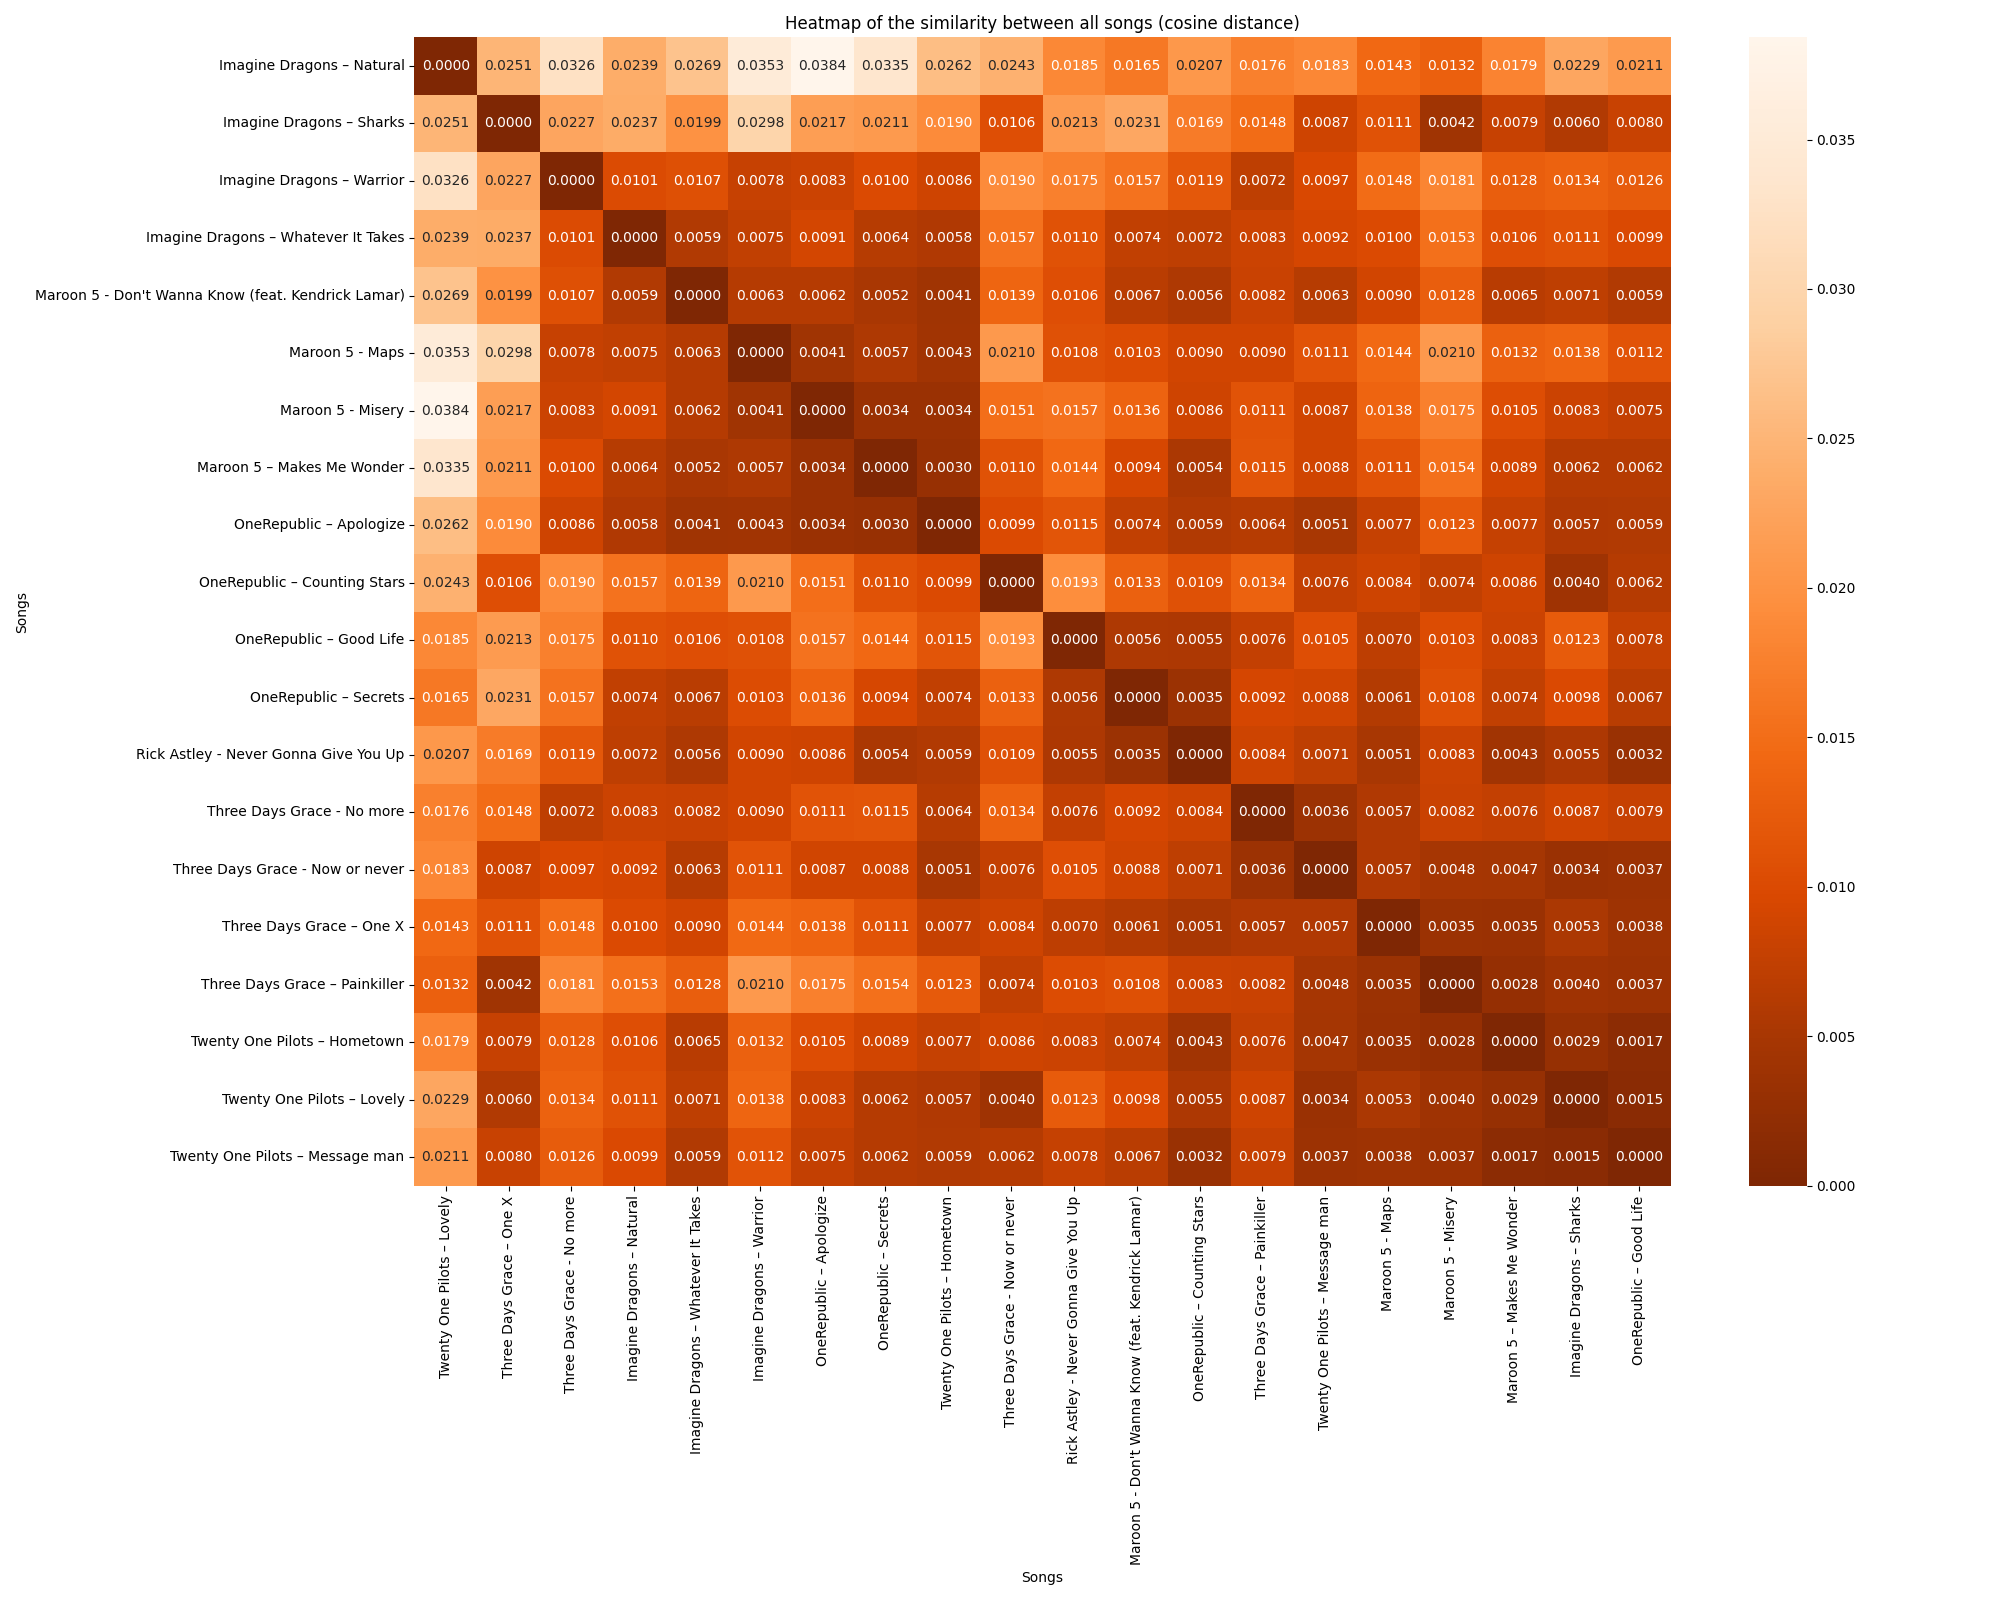
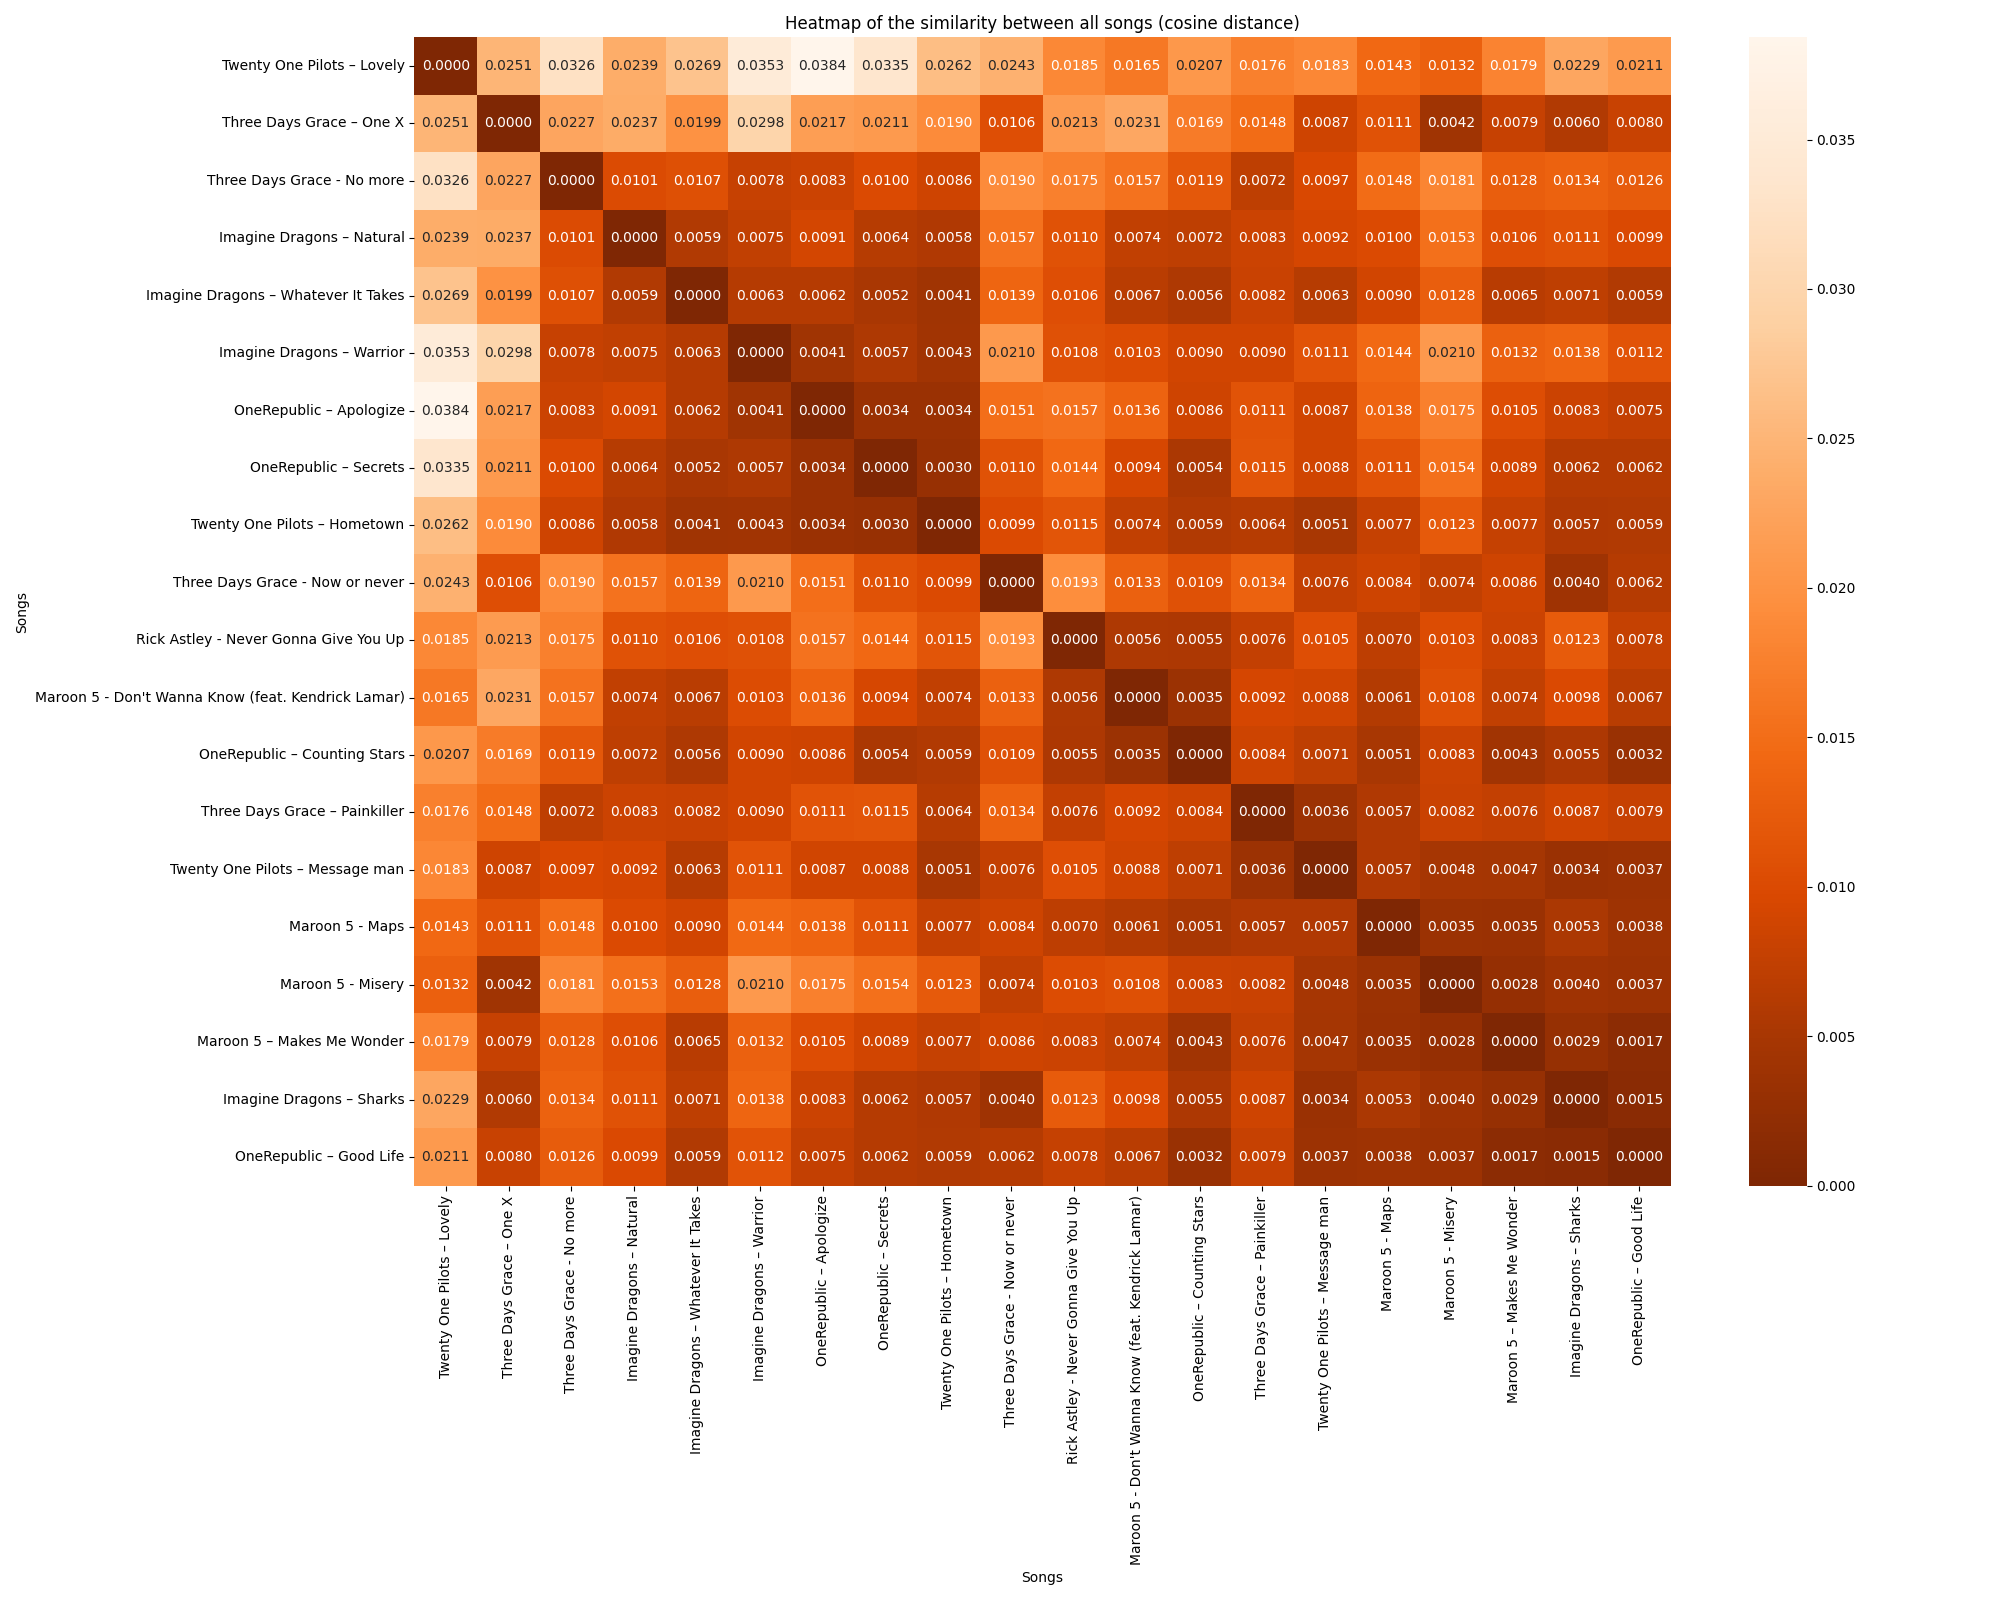
add code and plots

diff --git a/main.py b/main.py
@@ -50,7 +50,7 @@ def plot_similarity_heatmap(fingerprints, distance_type='cosine'):
     sorted_names = [names[i] for i in sorted_idx]
 
     plt.figure(figsize=(20, 16))
-    sns.heatmap(sorted_matrix, xticklabels=sorted_names, yticklabels=names, annot=True, fmt=".4f" if distance_type == 'cosine' else ".0f",
+    sns.heatmap(sorted_matrix, xticklabels=sorted_names, yticklabels=sorted_names, annot=True, fmt=".4f" if distance_type == 'cosine' else ".0f",
                 cmap=sns.color_palette("Oranges", as_cmap=True).reversed())
     plt.title(f"Heatmap of the similarity between all songs ({distance_type} distance)")
     plt.xlabel("Songs")
